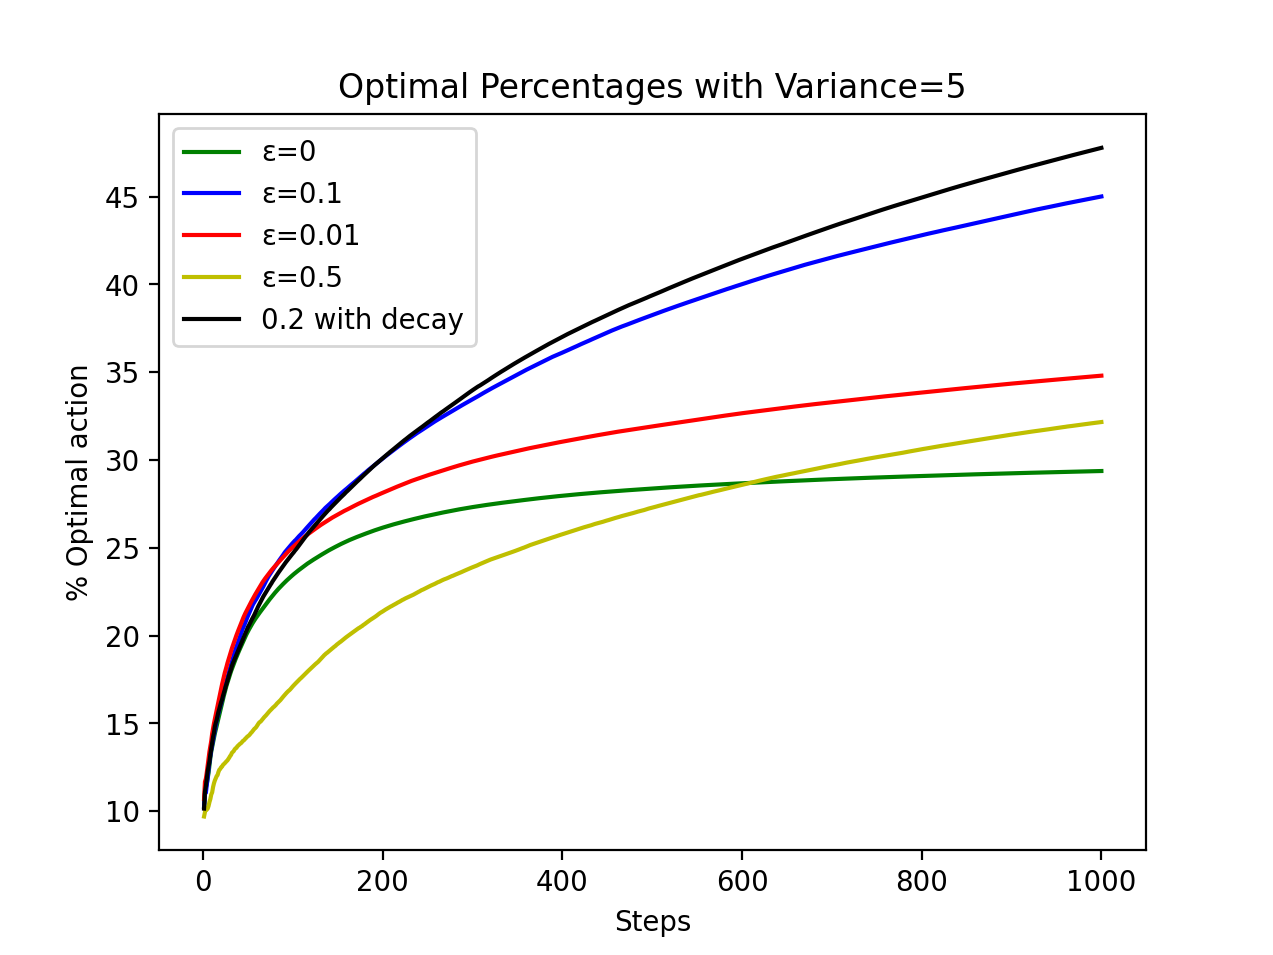
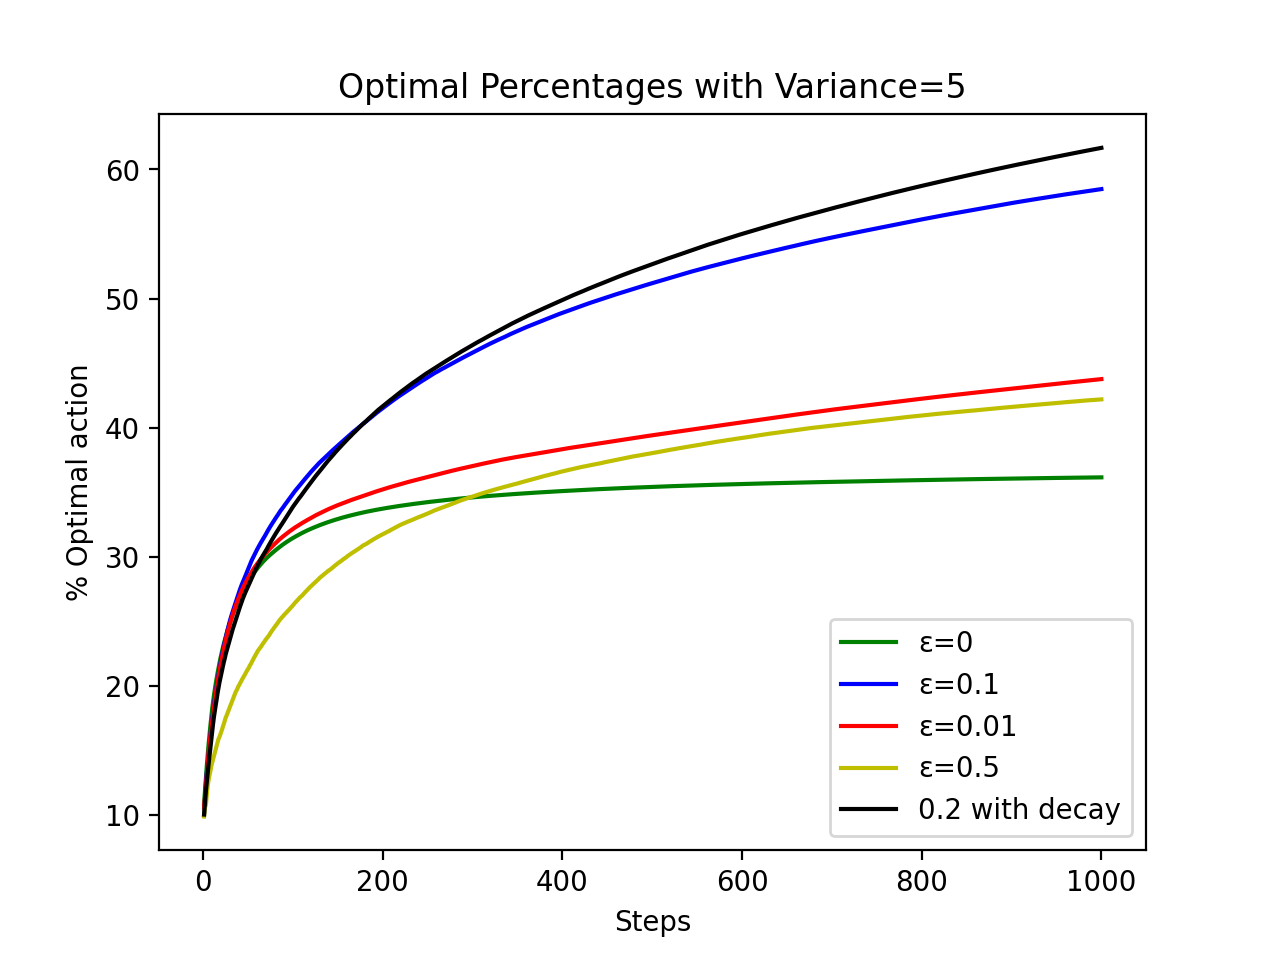
use standard deviations

diff --git a/experiments/exploration_exploitation_bandit_stationary.py b/experiments/exploration_exploitation_bandit_stationary.py
@@ -30,6 +30,7 @@ def get_epsilons(epsilon, decay, steps):
 
 
 def run_single_experiment(epsilon: float, decay=False, variance=1):
+    std = np.sqrt(variance)
     mu = np.random.normal(0, 1, 10)
     optimal_action = mu.argmax(axis=0)
     action_values = np.zeros(10)
@@ -41,13 +42,13 @@ def run_single_experiment(epsilon: float, decay=False, variance=1):
     optimal_action_percentage = []
     for i in range(steps):
         epsilon = epsilons[i] if epsilons else epsilon
-        if i < 50 and variance == 0 and epsilon == 0:
+        if i < 50 and std == 0 and epsilon == 0:
             selected_action = np.random.choice(10)
         else:
             selected_action = epsilon_greedy_action(action_values, epsilon)
         if selected_action == optimal_action:
             optimal_action_count += 1
-        actual_reward = np.random.normal(mu[selected_action], variance)
+        actual_reward = np.random.normal(mu[selected_action], std)
         action_counts[selected_action] += 1
         action_values[selected_action] += (
             actual_reward - action_values[selected_action]
